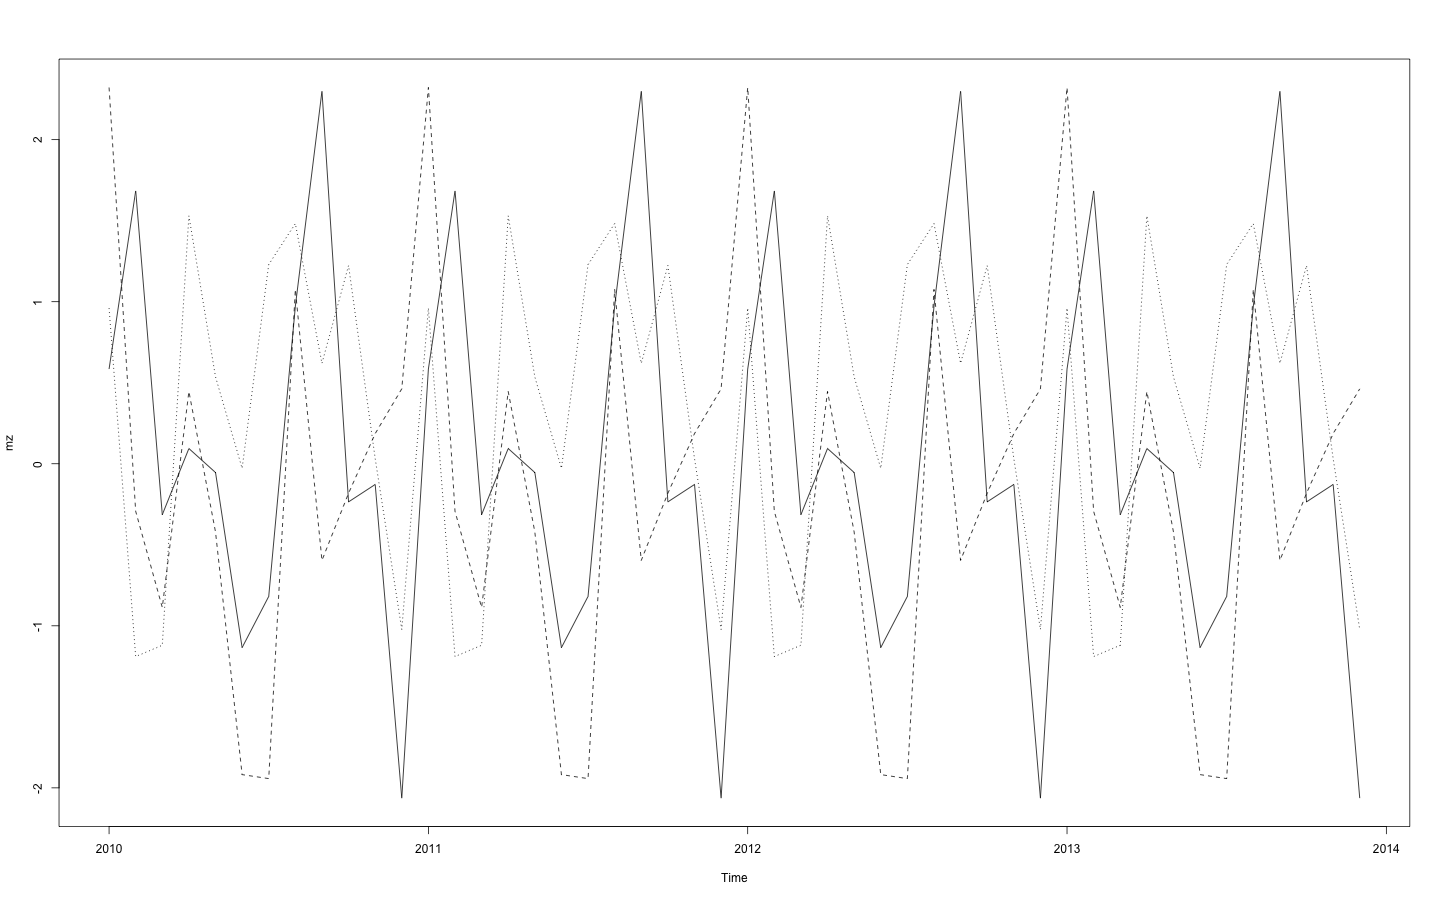
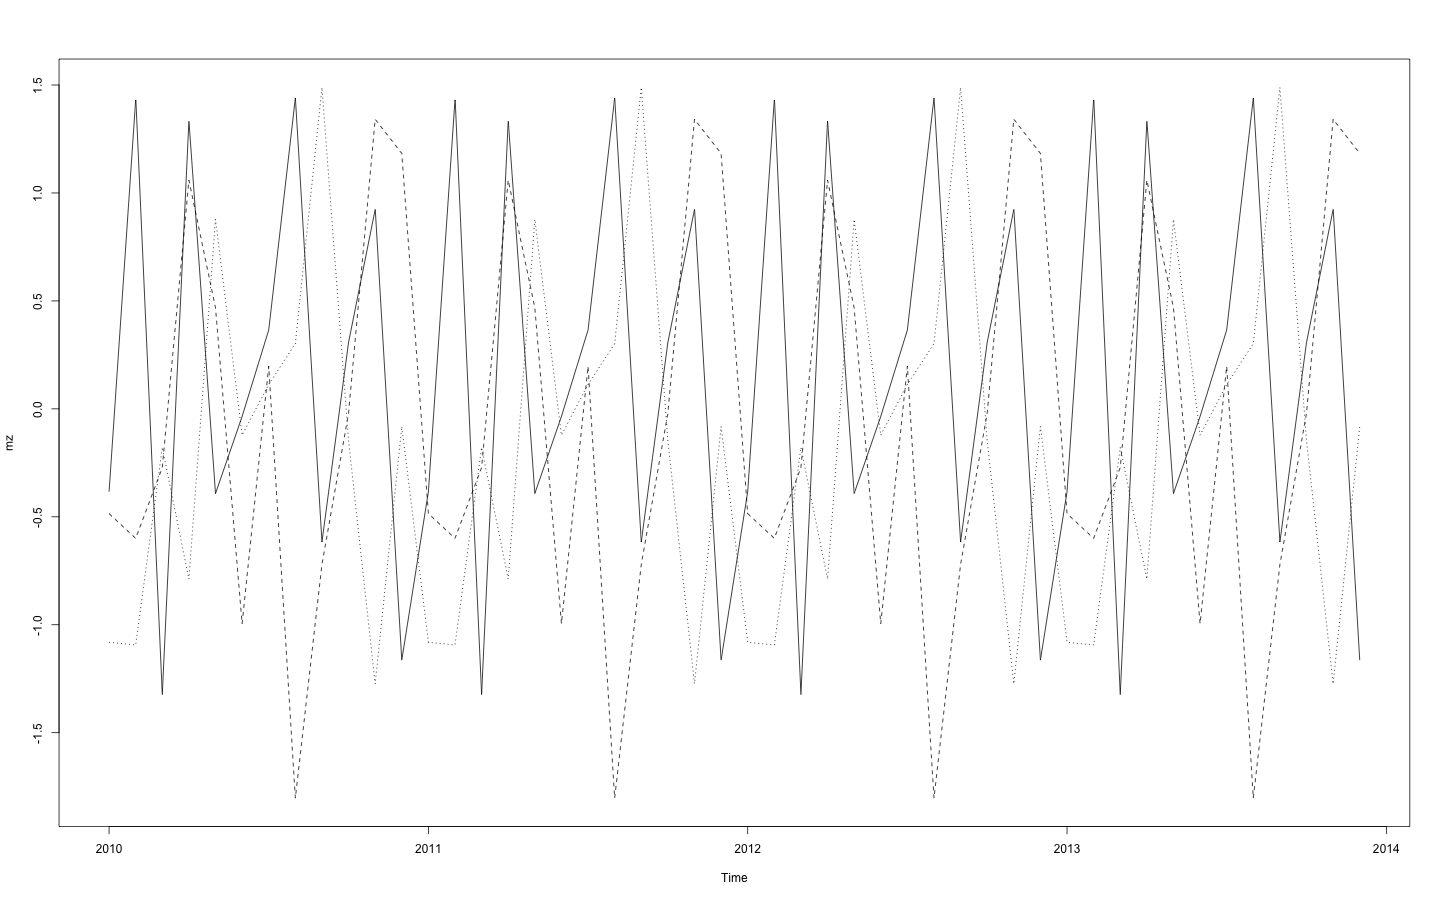
Adding Welcome slide and minor changes.

diff --git a/Meetup_2015_I_TS_Basics/Timeseries_Basics.md b/Meetup_2015_I_TS_Basics/Timeseries_Basics.md
@@ -14,10 +14,10 @@ autosize: true
 ![Rlogo](figures/Rlogo.png)
 ***  
 
-Word from one of our Sponsors 
+Word from one of our sponsors 
 ========================================================
 
-![Revolution_slide](R_User_Group_Welcome_Slide.pdf)
+![Revolution_slide](figures/R_User_Group_Welcome_Slide.png)
 
 Overview
 ========================================================
@@ -69,10 +69,10 @@ head(dat <- matrix(rnorm(48), 12,3), n = 3) # the data
 ```
 
 ```
-           [,1]       [,2]       [,3]
-[1,]  0.5843825  2.3220117  0.9607842
-[2,]  1.6835275 -0.2930287 -1.1898761
-[3,] -0.3142596 -0.8867444 -1.1199790
+          [,1]       [,2]       [,3]
+[1,] -0.383787 -0.4852832 -1.0810879
+[2,]  1.430448 -0.5997664 -1.0936309
+[3,] -1.323074 -0.2719492 -0.1788777
 ```
 
 ```r
@@ -81,10 +81,10 @@ mz <- ts(dat, start = c(2010, 1), end = c(2013,12), frequency = 12)
 ```
 
 ```
-           Series 1   Series 2   Series 3
-Jan 2010  0.5843825  2.3220117  0.9607842
-Feb 2010  1.6835275 -0.2930287 -1.1898761
-Mar 2010 -0.3142596 -0.8867444 -1.1199790
+          Series 1   Series 2   Series 3
+Jan 2010 -0.383787 -0.4852832 -1.0810879
+Feb 2010  1.430448 -0.5997664 -1.0936309
+Mar 2010 -1.323074 -0.2719492 -0.1788777
 ```
 
 plot.ts 
@@ -93,6 +93,7 @@ plot.ts
 ```
 plot(mz, lty=1:3, plot.type = 'single')
 ```
+
 
 ![simple_ts_plot](figures/plot_ts.png)
 
@@ -257,13 +258,13 @@ tail(OMV, 3)
 
 ```
            OMV.VI.Open OMV.VI.High OMV.VI.Low OMV.VI.Close OMV.VI.Volume
-2015-03-11       24.89       24.94      24.40        24.67        571900
-2015-03-12       24.67       25.04      24.67        24.86        421100
-2015-03-13       24.95       24.95      24.11        24.34        474600
+2015-03-18       23.81       24.08      23.57        23.97        587100
+2015-03-19       24.17       24.66      24.15        24.58        451600
+2015-03-20       24.65       25.26      24.55        25.26       1815700
            OMV.VI.Adjusted
-2015-03-11           24.67
-2015-03-12           24.86
-2015-03-13           24.34
+2015-03-18           23.97
+2015-03-19           24.58
+2015-03-20           25.26
 ```
 
 quantmod plot 
